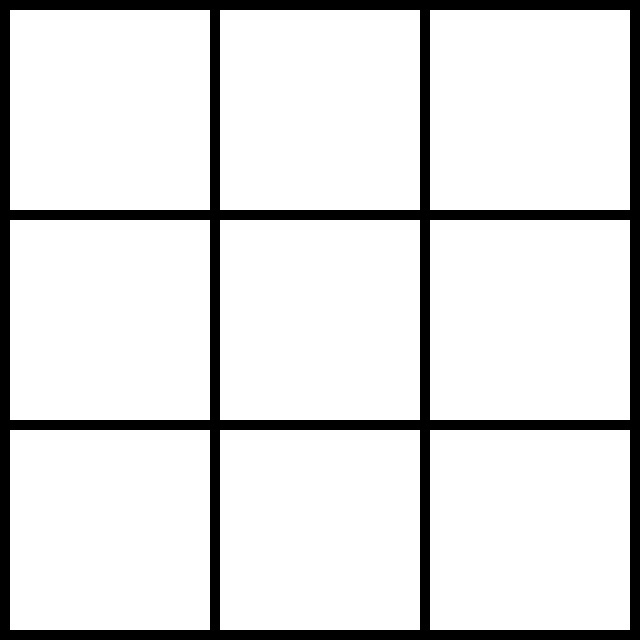
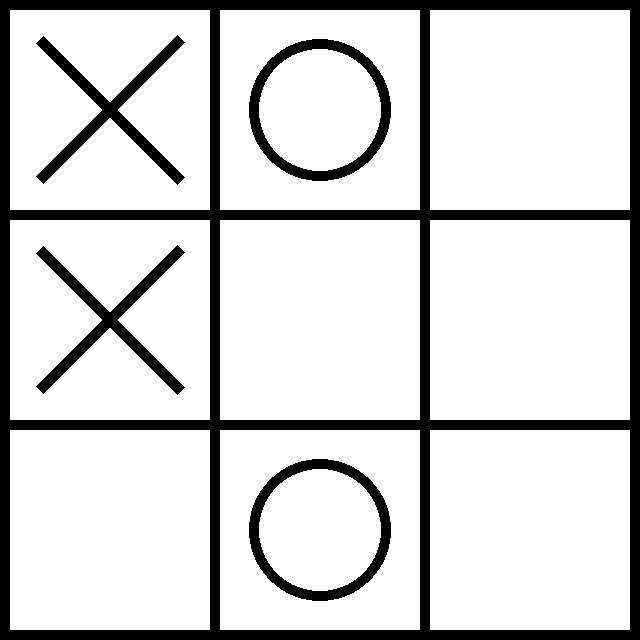
work in progress

diff --git a/controller/controller.py b/controller/controller.py
@@ -1,9 +1,8 @@
-from cgi import print_directory
-from turtle import circle
 import telebot
 from typing import NoReturn
 
 from tictactoe.field import Field
+from tictactoe.game import Game
 from .fieldimage import ImageController
 from .exceptions import NoClientInBase, WrongCommandName
 from storage.local import ClientBase
@@ -18,7 +17,7 @@ class Controller():
                 client_controller:ClientController, 
                 base:ClientBase=None) -> None:
         self.base = base if base else ClientBase()
-        self._image_ctrlr = ImageController()
+        self._image_ctrlr = ImageController(list(Game.chars_collection()))
         self._client_ctrlr = client_controller
         self._bot_ctrlr = BotController(
                 telegram_bot,
@@ -58,11 +57,12 @@ class Controller():
             event = Event.get(message)
             self._client_ctrlr.callback_handler(client, event, message)
             self._image_ctrlr.image_draw(client.get_map(), Field.__call__())
-            self._bot_ctrlr.keyboard_reply(
+            msg_id = self._bot_ctrlr.keyboard_reply(
                     event, 
                     client.chat_id,
                     bot_last_msg=client.bot_last_msg,
                     emoji=client.game_char
             )
+            client.bot_last_msg = msg_id if msg_id is not None else client.bot_last_msg
         except Exception as e:
             print(e)

diff --git a/bot/telegram.py b/bot/telegram.py
@@ -70,21 +70,21 @@ class BotController(telebot.TeleBot):
                     event:Event,
                     chat_id:str,
                     bot_last_msg:int=None,
-                    emoji:str=None) -> None:
+                    emoji:str=None) -> int|None:
         self.delete_message(chat_id, bot_last_msg)
         if event in [Event.SINGLE_MODE, Event.MULTI_MODE]:
-            self._bot.send_message(
+            return self._bot.send_message(
                     chat_id,
                     'Choose your Char',
                     reply_markup=CharSelectionKeyboard.make()
-            )
+            ).message_id
         if event in [Event.CROSS, Event.ZERO, Event.MOVE]:
-            self._bot.send_photo(
+            return self._bot.send_photo(
                     chat_id,
                     photo=open('storage/pol.jpg', 'rb'),
                     caption='Make a move',
                     reply_markup=GameKeyboard.make(emoji)
-            )
+            ).message_id
 
     def delete_message(self, chat_id:str, message_id:int) -> None:
         if message_id is None: return

diff --git a/tictactoe/game.py b/tictactoe/game.py
@@ -53,8 +53,11 @@ class Game(ABC):
             raise CharIsOccupied(char_name)
         self._char = self._chars[char_name]
 
-    def get_opposite_char(self, char_name:str):
-        return ''.join(list(self._chars)).replace(char_name,'')
+    def chars_collection() -> list:
+        return Game._chars.values()
+
+    def get_opposite_char(self, char:str):
+        return ''.join(list(self._chars.values())).replace(char,'')
 
     @abstractmethod
     def move_processor(self, char:str, cell_num:int) -> Error|GameStatus|None:
@@ -65,7 +68,7 @@ class Game(ABC):
         self._char_in_turn = self.get_opposite_char(char)
 
     def update_map(self, char:str, cell_num:int) -> CellIsOccupied|None:
-        if str(self._field.get()[cell_num]) not in ''.join(list(self._chars)):
+        if str(self._field.get()[cell_num]) not in ''.join(list(self._chars.values())):
             self._field.update_map(cell_num, char)
         else:
             raise CellIsOccupied()

diff --git a/controller/fieldimage.py b/controller/fieldimage.py
@@ -55,14 +55,18 @@ class ImageController:
     __cross = Cross()
     __circle = Circle()
     __winline = WinLine()
+    __chars:dict
+
+    def __init__(self, chars_collection:list) -> None:
+        self.__chars = chars_collection
 
     def image_draw(self, field_map: list, field_markup: dict, im: Image = Image.open('storage\pol.jpg')):
         # if not im:
         #     im = Image.open('storage\pol.jpg')
         for i in range(len(field_map)):
-            if field_map[i] == 'X':
+            if field_map[i] == self.__chars[0]:
                 self.__cross(field_markup[str(i)], im)
-            if field_map[i] == 'O':
+            if field_map[i] == self.__chars[1]:
                 self.__circle(field_markup[str(i)], im)
         im.save('pol2.jpg', quality=200) 
 

diff --git a/tictactoe/gamebot.py b/tictactoe/gamebot.py
@@ -10,9 +10,9 @@ class GameBot():
     def move(field:list, chars:dict) -> int:
         is_right = False
         turn = 0
-        chars_str = ''.join(list(chars))
+        chars_str = ''.join(list(chars.values()))
         while not is_right:
             turn = random.randint(0,8)
-            if field[turn] not in chars_str:
+            if str(field[turn]) not in chars_str:
                 is_right = True
         return turn

diff --git a/controller/client.py b/controller/client.py
@@ -45,5 +45,5 @@ class Client():
         return self._game.field
 
     def move(self, message:str) -> None:
-        char = self.get_game_char()
+        char = self.game_char
         self._game.move_processor(char, int(message))
